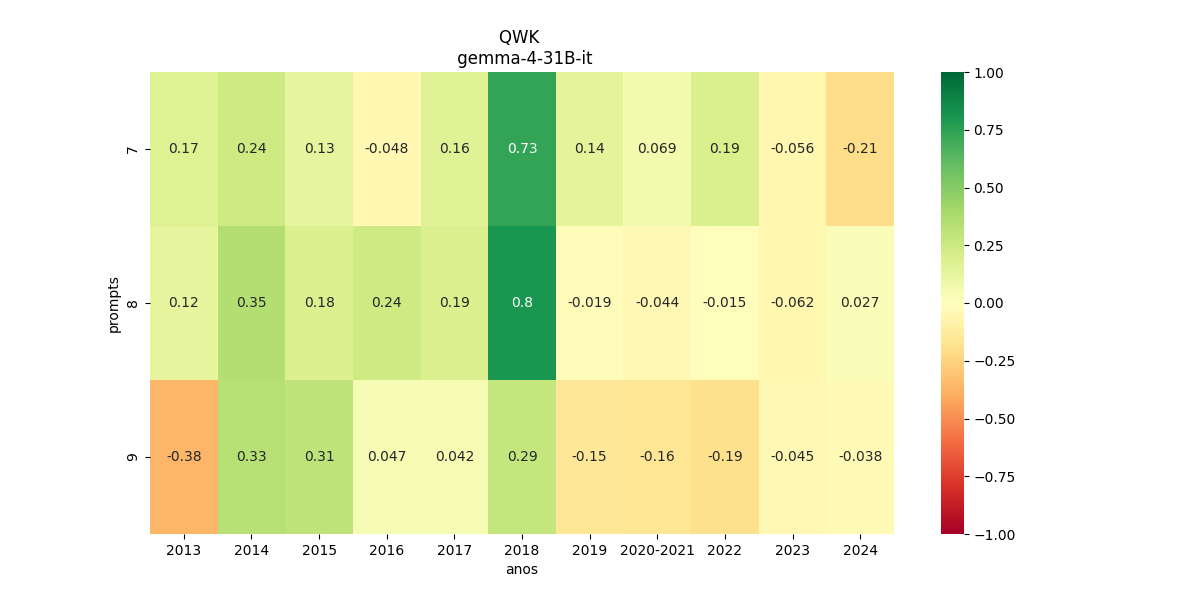
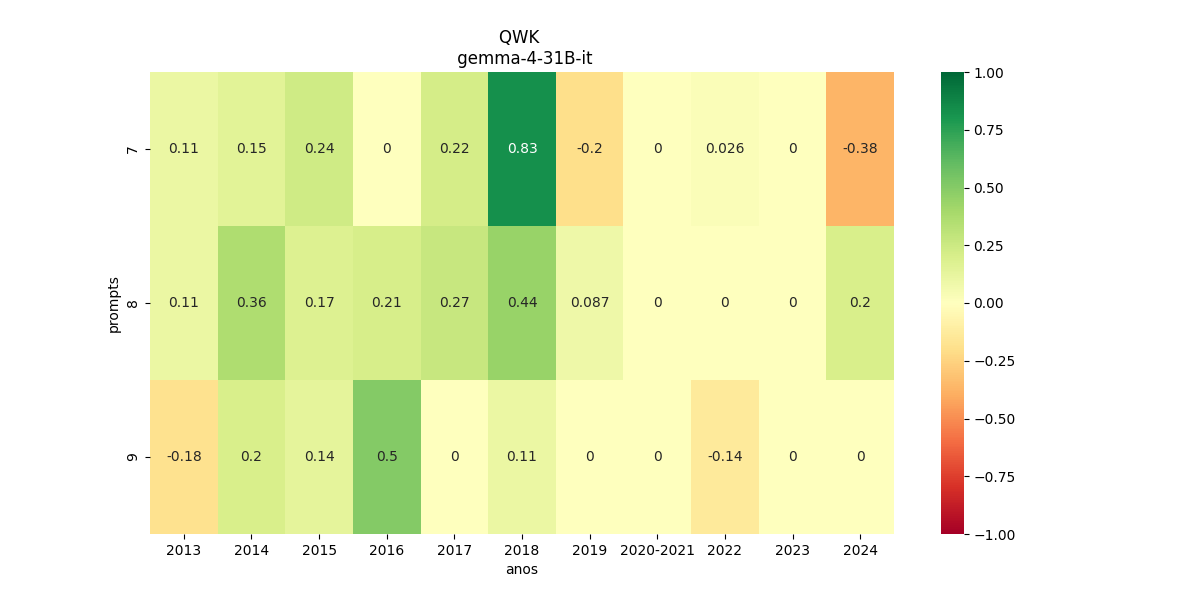
Kappa with 5 binning

diff --git a/scripts/full_report.py b/scripts/full_report.py
@@ -6,6 +6,7 @@ import seaborn as sns
 import matplotlib.pyplot as plt
 import argparse
 from sklearn.preprocessing import MinMaxScaler
+import math
 
 from .utils import get_mean
 
@@ -18,7 +19,7 @@ def print_full(df):
     pd.reset_option('display.max_rows')
     pd.reset_option('display.expand_frame_repr')
 
-def quadratic_weighted_kappa(df):
+def quadratic_weighted_kappa(df: pd.DataFrame, bin_div: int = 1):
     prompts = df["prompt"].unique()
     years = sorted(df["ano"].unique())
 
@@ -30,11 +31,14 @@ def quadratic_weighted_kappa(df):
             df_format = df[(df["ano"] == year) & (df["prompt"] == prompt)]
             notas_modelos = df_format["nota_final_model"].astype(int).to_list()
             notas_humanos = df_format["nota_final_human"].astype(int).to_list()
-            
-            notas_modelos = list(map(round, notas_modelos))
-            notas_humanos = list(map(round, notas_humanos))
 
-            cohen_ano.append(cohen_kappa_score(notas_humanos, notas_modelos, weights='quadratic'))
+            notas_modelos = list(map(lambda x: x//bin_div, notas_modelos))
+            notas_humanos = list(map(lambda x: x//bin_div, notas_humanos))
+
+            nota_max = 60 if year != "2024" else 70
+            labels_kappa = [x//bin_div for x in range(0, nota_max, bin_div)]
+
+            cohen_ano.append(cohen_kappa_score(notas_humanos, notas_modelos, weights='quadratic', labels=labels_kappa))
         cohen_df.insert(len(cohen_df.columns), year, cohen_ano)
 
     return cohen_df
@@ -200,7 +204,7 @@ def full_report(num_runs, num_redacoes, model_name):
 
     df.insert(len(df.columns), "val_squared_error", (df["nota_final_human"] - df["nota_final_model"])**2)
 
-    cohen_kappa_df = quadratic_weighted_kappa(df)
+    cohen_kappa_df = quadratic_weighted_kappa(df, 5)
 
     output_path = os.path.join(os.getcwd(), "prompt_testing", "reports", model_name)
     plot_RMSE(df, model_name, output_path)
